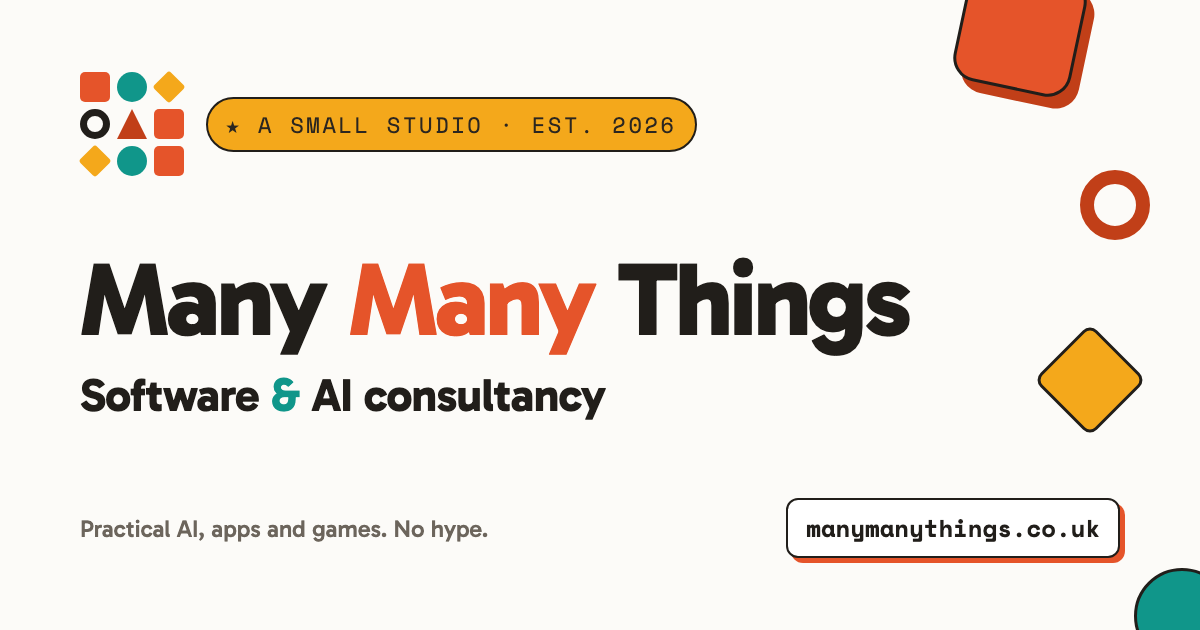
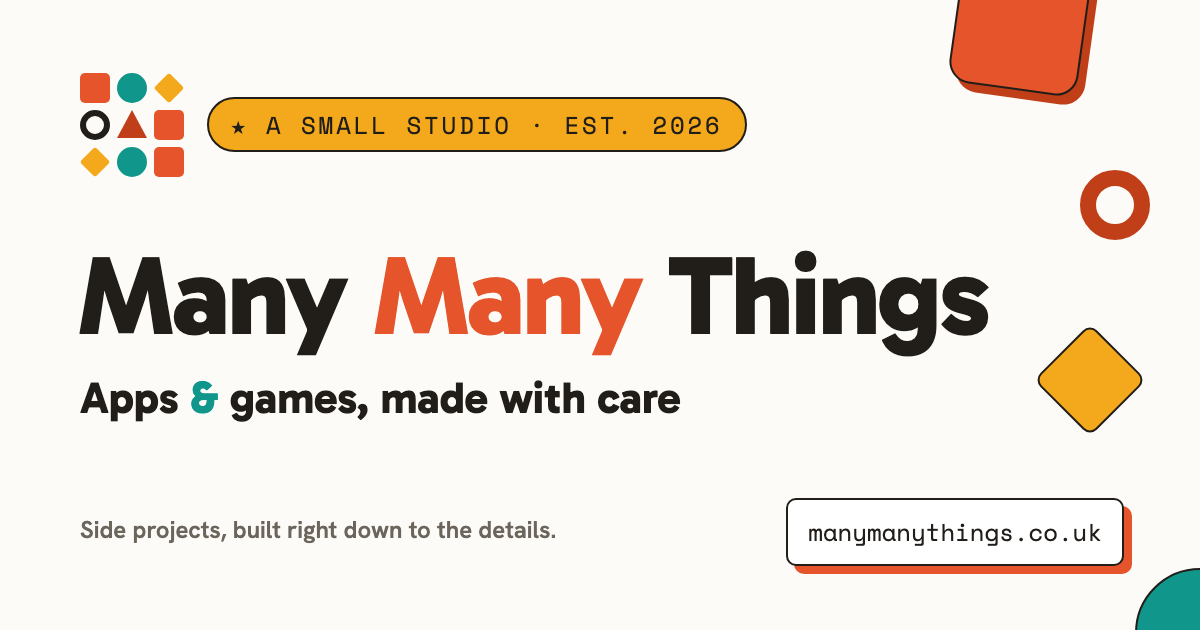
Remove consultancy; reframe as side-project studio with free advice
Claude-Session: https://claude.ai/code/session_01SW4bFxWS37rvD8a5UqsDJY

diff --git a/index.html b/index.html
@@ -3,9 +3,9 @@
 <head>
 <meta charset="UTF-8" />
 <meta name="viewport" content="width=device-width, initial-scale=1.0" />
-<title>Many Many Things | Software &amp; AI Consultancy, UK</title>
-<meta name="description" content="Many Many Things is a UK software and AI consultancy. We build AI features, automations and GTM engineering, ship web and mobile apps, and give honest, no-hype advice." />
-<meta name="keywords" content="AI consultancy, software and AI consultancy, AI consultancy UK, GTM engineering, go-to-market engineering, AI automation, AI features, RevOps automation, software consultancy, software studio, app development" />
+<title>Many Many Things | A Little Studio of Apps &amp; Games, UK</title>
+<meta name="description" content="Many Many Things is a small UK studio for side projects: apps, games and tools made with care. Sudo Games for iOS and MoonPoker for Jira." />
+<meta name="keywords" content="indie studio, software studio, apps, games, board games app, Sudo Games, MoonPoker, Jira planning poker, side projects" />
 <meta name="author" content="Many Many Things" />
 <meta name="robots" content="index, follow, max-image-preview:large, max-snippet:-1, max-video-preview:-1" />
 <link rel="canonical" href="https://manymanythings.co.uk/" />
@@ -24,31 +24,31 @@
 <meta property="og:type" content="website" />
 <meta property="og:site_name" content="Many Many Things" />
 <meta property="og:locale" content="en_GB" />
-<meta property="og:title" content="Software &amp; AI Consultancy | Many Many Things" />
-<meta property="og:description" content="Practical AI features, automations and software, built by a small UK studio. Honest advice, no hype." />
+<meta property="og:title" content="Many Many Things | A little studio of apps &amp; games" />
+<meta property="og:description" content="Apps, games and tools, made with care by a small UK studio." />
 <meta property="og:url" content="https://manymanythings.co.uk/" />
 <meta property="og:image" content="https://manymanythings.co.uk/og-image.png" />
 <meta property="og:image:width" content="1200" />
 <meta property="og:image:height" content="630" />
-<meta property="og:image:alt" content="Many Many Things, software and AI consultancy" />
+<meta property="og:image:alt" content="Many Many Things, a little studio of apps and games" />
 <meta name="twitter:card" content="summary_large_image" />
-<meta name="twitter:title" content="Software &amp; AI Consultancy | Many Many Things" />
-<meta name="twitter:description" content="Practical AI features, automations and software, built by a small UK studio. Honest advice, no hype." />
+<meta name="twitter:title" content="Many Many Things | A little studio of apps &amp; games" />
+<meta name="twitter:description" content="Apps, games and tools, made with care by a small UK studio." />
 <meta name="twitter:image" content="https://manymanythings.co.uk/og-image.png" />
-<meta name="twitter:image:alt" content="Many Many Things, software and AI consultancy" />
+<meta name="twitter:image:alt" content="Many Many Things, a little studio of apps and games" />
 
 <link rel="preconnect" href="https://fonts.googleapis.com" />
 <link rel="preconnect" href="https://fonts.gstatic.com" crossorigin />
 <link href="https://fonts.googleapis.com/css2?family=Gabarito:wght@400..800&family=Hanken+Grotesk:wght@400;500;600;700&family=Space+Mono:wght@400;700&display=swap" rel="stylesheet" />
 <link rel="stylesheet" href="styles.css" />
 
-<!-- structured data: organization, website, consultancy services -->
+<!-- structured data: organization, website, apps -->
 <script type="application/ld+json">
 {
   "@context": "https://schema.org",
   "@graph": [
     {
-      "@type": ["Organization", "ProfessionalService"],
+      "@type": "Organization",
       "@id": "https://manymanythings.co.uk/#organization",
       "name": "Many Many Things",
       "url": "https://manymanythings.co.uk/",
@@ -56,18 +56,10 @@
       "image": "https://manymanythings.co.uk/og-image.png",
       "email": "contact@manymanythings.co.uk",
       "sameAs": ["https://github.com/Many-Many-Things"],
-      "description": "Many Many Things is a UK software and AI consultancy and studio. We build practical AI features and automations, ship web and mobile software, and advise teams with honest, no-hype engineering.",
+      "description": "Many Many Things is a small UK studio for side projects: apps, games and tools made with care.",
       "slogan": "A little studio making many, many things.",
       "foundingDate": "2026",
-      "areaServed": { "@type": "Country", "name": "United Kingdom" },
-      "knowsAbout": ["AI consultancy", "Artificial intelligence", "AI automation", "LLM integration", "GTM engineering", "Go-to-market engineering", "RevOps", "Software development", "Web development", "Mobile app development", "Prototyping"],
-      "contactPoint": {
-        "@type": "ContactPoint",
-        "email": "contact@manymanythings.co.uk",
-        "contactType": "sales",
-        "areaServed": "GB",
-        "availableLanguage": "English"
-      }
+      "knowsAbout": ["Software development", "Mobile app development", "Game development", "Atlassian Forge"]
     },
     {
       "@type": "WebSite",
@@ -76,25 +68,6 @@
       "name": "Many Many Things",
       "inLanguage": "en-GB",
       "publisher": { "@id": "https://manymanythings.co.uk/#organization" }
-    },
-    {
-      "@type": "Service",
-      "@id": "https://manymanythings.co.uk/#consultancy",
-      "name": "Software & AI consultancy",
-      "serviceType": "AI consultancy",
-      "provider": { "@id": "https://manymanythings.co.uk/#organization" },
-      "areaServed": { "@type": "Country", "name": "United Kingdom" },
-      "description": "Practical software and AI consultancy: AI features and automations, web and mobile software, prototyping and honest advice.",
-      "hasOfferCatalog": {
-        "@type": "OfferCatalog",
-        "name": "Consultancy services",
-        "itemListElement": [
-          { "@type": "Offer", "itemOffered": { "@type": "Service", "name": "Product & software", "description": "We design and build web and mobile software with a small, attentive team." } },
-          { "@type": "Offer", "itemOffered": { "@type": "Service", "name": "AI & automation", "description": "Practical AI features and automations that earn their keep." } },
-          { "@type": "Offer", "itemOffered": { "@type": "Service", "name": "Advice & prototyping", "description": "We prototype ideas and help you decide what is worth building." } },
-          { "@type": "Offer", "itemOffered": { "@type": "Service", "name": "GTM engineering", "description": "We build the technical side of go-to-market: data pipelines, CRM automation and AI-assisted outbound." } }
-        ]
-      }
     },
     {
       "@type": "MobileApplication",
@@ -131,7 +104,7 @@
 <!-- ░░ top ribbon ░░ -->
 <div class="ribbon" aria-hidden="true">
   <div class="ribbon__track" id="ribbon">
-    <span>Many Many Things</span><span>Est. 2026</span><span>Making things with care</span><span>Apps &amp; games</span><span>Software &amp; AI consultancy</span>
+    <span>Many Many Things</span><span>Est. 2026</span><span>Making things with care</span><span>Apps &amp; games</span><span>Side projects</span>
   </div>
 </div>
 
@@ -148,7 +121,7 @@
     </a>
     <nav class="nav">
       <a class="nav__link" href="#projects">Projects</a>
-      <a class="nav__link" href="#consultancy">Consultancy</a>
+      <a class="nav__link" href="#advice">Advice</a>
       <a class="btn btn--sm btn--primary" href="mailto:contact@manymanythings.co.uk">Say hello</a>
     </nav>
   </div>
@@ -162,10 +135,10 @@
       <div class="hero__copy">
         <span class="sticker">★ a small studio · est. 2026</span>
         <h1>We make <em>many</em>, <span class="swap">many</span> things.</h1>
-        <p class="lead">Apps and games, made with intention and care, right down to the details. And when you need a hand, we consult on software &amp; AI too.</p>
+        <p class="lead">Apps and games, made with intention and care, right down to the details.</p>
         <div class="hero__cta">
           <a class="btn btn--primary" href="#projects">See what we're making →</a>
-          <a class="btn" href="#consultancy">Work with us</a>
+          <a class="btn" href="#contact">Say hello</a>
         </div>
       </div>
 
@@ -277,7 +250,7 @@
           <div class="card__art" style="aspect-ratio:1/1"><div class="ph">?</div></div>
           <div class="card__body">
             <h3>Your idea?</h3>
-            <p>Got something for us? <a href="mailto:contact@manymanythings.co.uk" style="color:var(--primary);font-weight:700">Tell us →</a></p>
+            <p>Got an idea you want to see made? <a href="mailto:contact@manymanythings.co.uk" style="color:var(--primary);font-weight:700">Tell us →</a></p>
             <div class="card__meta"><span class="mono">say hello</span></div>
           </div>
         </article>
@@ -285,45 +258,18 @@
     </div>
   </section>
 
-  <!-- ░░ consultancy ░░ -->
-  <section class="consult" id="consultancy">
+  <!-- ░░ advice ░░ -->
+  <section class="advice" id="advice">
     <div class="wrap">
       <div class="section-head reveal">
-        <span class="tag" style="color:var(--primary)">// consultancy</span>
-        <h2>Software &amp; AI consultancy, done thoughtfully</h2>
+        <span class="tag" style="color:var(--primary)">// advice</span>
+        <h2>Free advice, if it helps</h2>
       </div>
-      <p class="consult__lead reveal">We help teams ship software that feels good to use, and put <b>AI to genuinely practical work</b>, minus the magic words. Just careful engineering and honest advice.</p>
+      <p class="advice__lead reveal">We don't take on client work. But if you're building something, or finding your way in tech, we're happy to chat. <b>Especially if you're a woman, non-binary, or from an under-represented group</b> in the industry.</p>
 
-      <div class="offers">
-        <div class="offer reveal">
-          <span class="offer__ico"><span class="mark mark--xs"><i class="sq"></i><i class="ci"></i><i class="di"></i><i class="ri"></i></span></span>
-          <span class="offer__no">01</span>
-          <h3>Product &amp; software</h3>
-          <p>From first sketch to shipped: we design and build web and mobile software with a small, attentive team.</p>
-        </div>
-        <div class="offer reveal">
-          <span class="offer__ico"><span class="mark mark--xs"><i class="ci"></i><i class="sq"></i><i class="ci"></i><i class="di"></i></span></span>
-          <span class="offer__no">02</span>
-          <h3>AI &amp; automation</h3>
-          <p>Practical AI features and automations that earn their keep. We scope them honestly and build them to last.</p>
-        </div>
-        <div class="offer reveal">
-          <span class="offer__ico"><span class="mark mark--xs"><i class="di"></i><i class="ci"></i><i class="sq"></i><i class="ci"></i></span></span>
-          <span class="offer__no">03</span>
-          <h3>Advice &amp; prototyping</h3>
-          <p>Need a second brain? We'll prototype ideas and help you decide what's worth building.</p>
-        </div>
-        <div class="offer reveal">
-          <span class="offer__ico"><span class="mark mark--xs"><i class="tr"></i><i class="di"></i><i class="ci"></i><i class="sq"></i></span></span>
-          <span class="offer__no">04</span>
-          <h3>GTM engineering</h3>
-          <p>We build the technical side of go-to-market: the data plumbing and AI-assisted outbound that earns replies.</p>
-        </div>
-      </div>
-
-      <div class="consult__foot reveal">
-        <a class="btn btn--primary" href="mailto:contact@manymanythings.co.uk?subject=Working%20together">Start a conversation →</a>
-        <p>No deck required. A short email is plenty.</p>
+      <div class="advice__foot reveal">
+        <a class="btn btn--primary" href="mailto:contact@manymanythings.co.uk?subject=Advice">Ask a question →</a>
+        <p>No cost, no catch. A short email is plenty.</p>
       </div>
     </div>
   </section>
@@ -332,8 +278,8 @@
   <section class="contact" id="contact">
     <div class="wrap">
       <span class="mono reveal" style="display:block">// say hello</span>
-      <h2 class="reveal">Let's make something.</h2>
-      <p class="sub reveal">Projects, collaborations, consultancy, or just a friendly hello. We read every message.</p>
+      <h2 class="reveal">Say hello.</h2>
+      <p class="sub reveal">Feedback on our projects, a question, or just a friendly hello. We read every message.</p>
       <div class="email-card reveal">
         <a class="email" href="mailto:contact@manymanythings.co.uk">contact@manymanythings.co.uk</a>
         <button class="btn btn--sm copy-btn" id="copyBtn" type="button">
@@ -359,7 +305,7 @@
       <span class="counter">you are visitor no. <b id="visitorCount">00,001</b></span>
       <div class="foot__links">
         <a href="#projects">Projects</a>
-        <a href="#consultancy">Consultancy</a>
+        <a href="#advice">Advice</a>
         <a href="mailto:contact@manymanythings.co.uk">Email</a>
         <a href="#top">↑ top</a>
       </div>

diff --git a/styles.css b/styles.css
@@ -439,19 +439,12 @@ section { position: relative; }
 .mp-logo .pip--tl { top: calc(var(--S) * 0.07); left: calc(var(--S) * 0.06); }
 .mp-logo .pip--br { bottom: calc(var(--S) * 0.07); right: calc(var(--S) * 0.06); transform: rotate(180deg); }
 
-/* ---- Consultancy ---- */
-.consult { padding: clamp(48px, 7vw, 92px) 0; background: var(--bg-2); border-top: 2px solid var(--ink); border-bottom: 2px solid var(--ink); }
-.consult__lead { max-width: 56ch; font-size: clamp(1.15rem, 2vw, 1.5rem); line-height: 1.45; margin: 0 0 44px; }
-.consult__lead b { color: var(--primary); font-weight: 800; }
-.offers { display: grid; grid-template-columns: repeat(2, 1fr); gap: 20px; }
-@media (max-width: 800px) { .offers { grid-template-columns: 1fr; } }
-.offer { background: var(--card); border: 2px solid var(--ink); border-radius: 16px; padding: 26px 24px; display: flex; flex-direction: column; gap: 12px; box-shadow: 4px 4px 0 color-mix(in oklab, var(--ink), transparent 88%); }
-.offer__no { font-family: var(--font-mono); font-size: 0.74rem; color: var(--primary); letter-spacing: 0.1em; }
-.offer__ico { width: 38px; height: 38px; display: grid; place-items: center; }
-.offer h3 { font-family: var(--font-display); font-weight: 800; font-size: 1.3rem; margin: 0; letter-spacing: -0.01em; }
-.offer p { margin: 0; color: var(--ink-soft); font-size: 0.98rem; line-height: 1.55; }
-.consult__foot { margin-top: 40px; display: flex; align-items: center; gap: 18px; flex-wrap: wrap; }
-.consult__foot p { margin: 0; color: var(--ink-soft); font-size: 0.95rem; }
+/* ---- Advice ---- */
+.advice { padding: clamp(48px, 7vw, 92px) 0; background: var(--bg-2); border-top: 2px solid var(--ink); border-bottom: 2px solid var(--ink); }
+.advice__lead { max-width: 56ch; font-size: clamp(1.15rem, 2vw, 1.5rem); line-height: 1.45; margin: 0; }
+.advice__lead b { color: var(--primary); font-weight: 800; }
+.advice__foot { margin-top: 40px; display: flex; align-items: center; gap: 18px; flex-wrap: wrap; }
+.advice__foot p { margin: 0; color: var(--ink-soft); font-size: 0.95rem; }
 
 /* ---- Contact ---- */
 .contact { padding: clamp(64px, 10vw, 128px) 0; text-align: center; }

diff --git a/README.md b/README.md
@@ -1,8 +1,7 @@
 # Many Many Things — landing site
 
-A warm, cozy, tasteful-2000s studio landing site for **Many Many Things** — an umbrella
-for our software, apps and video games (Sudo Games, coming soon) plus software & AI
-consultancy.
+A warm, cozy, tasteful-2000s studio landing site for **Many Many Things**: a portfolio
+studio for side projects (apps, games and tools).
 
 Built as a dependency-free **static site** (vanilla HTML/CSS/JS — no framework, no build
 step) and hosted on **GitHub Pages** at [manymanythings.co.uk](https://manymanythings.co.uk).
@@ -11,7 +10,7 @@ step) and hosted on **GitHub Pages** at [manymanythings.co.uk](https://manymanyt
 
 | File | Purpose |
 | --- | --- |
-| `index.html` | Single-page markup (hero, projects, consultancy, contact, footer) |
+| `index.html` | Single-page markup (hero, projects, advice, contact, footer) |
 | `styles.css` | Palette, type, paper-grain texture, animations, responsive layout |
 | `script.js` | Visitor counter, ribbon loop, copy-email, reveal-on-scroll, logo easter egg |
 | `favicon.svg` | Shape-cluster brand mark |
